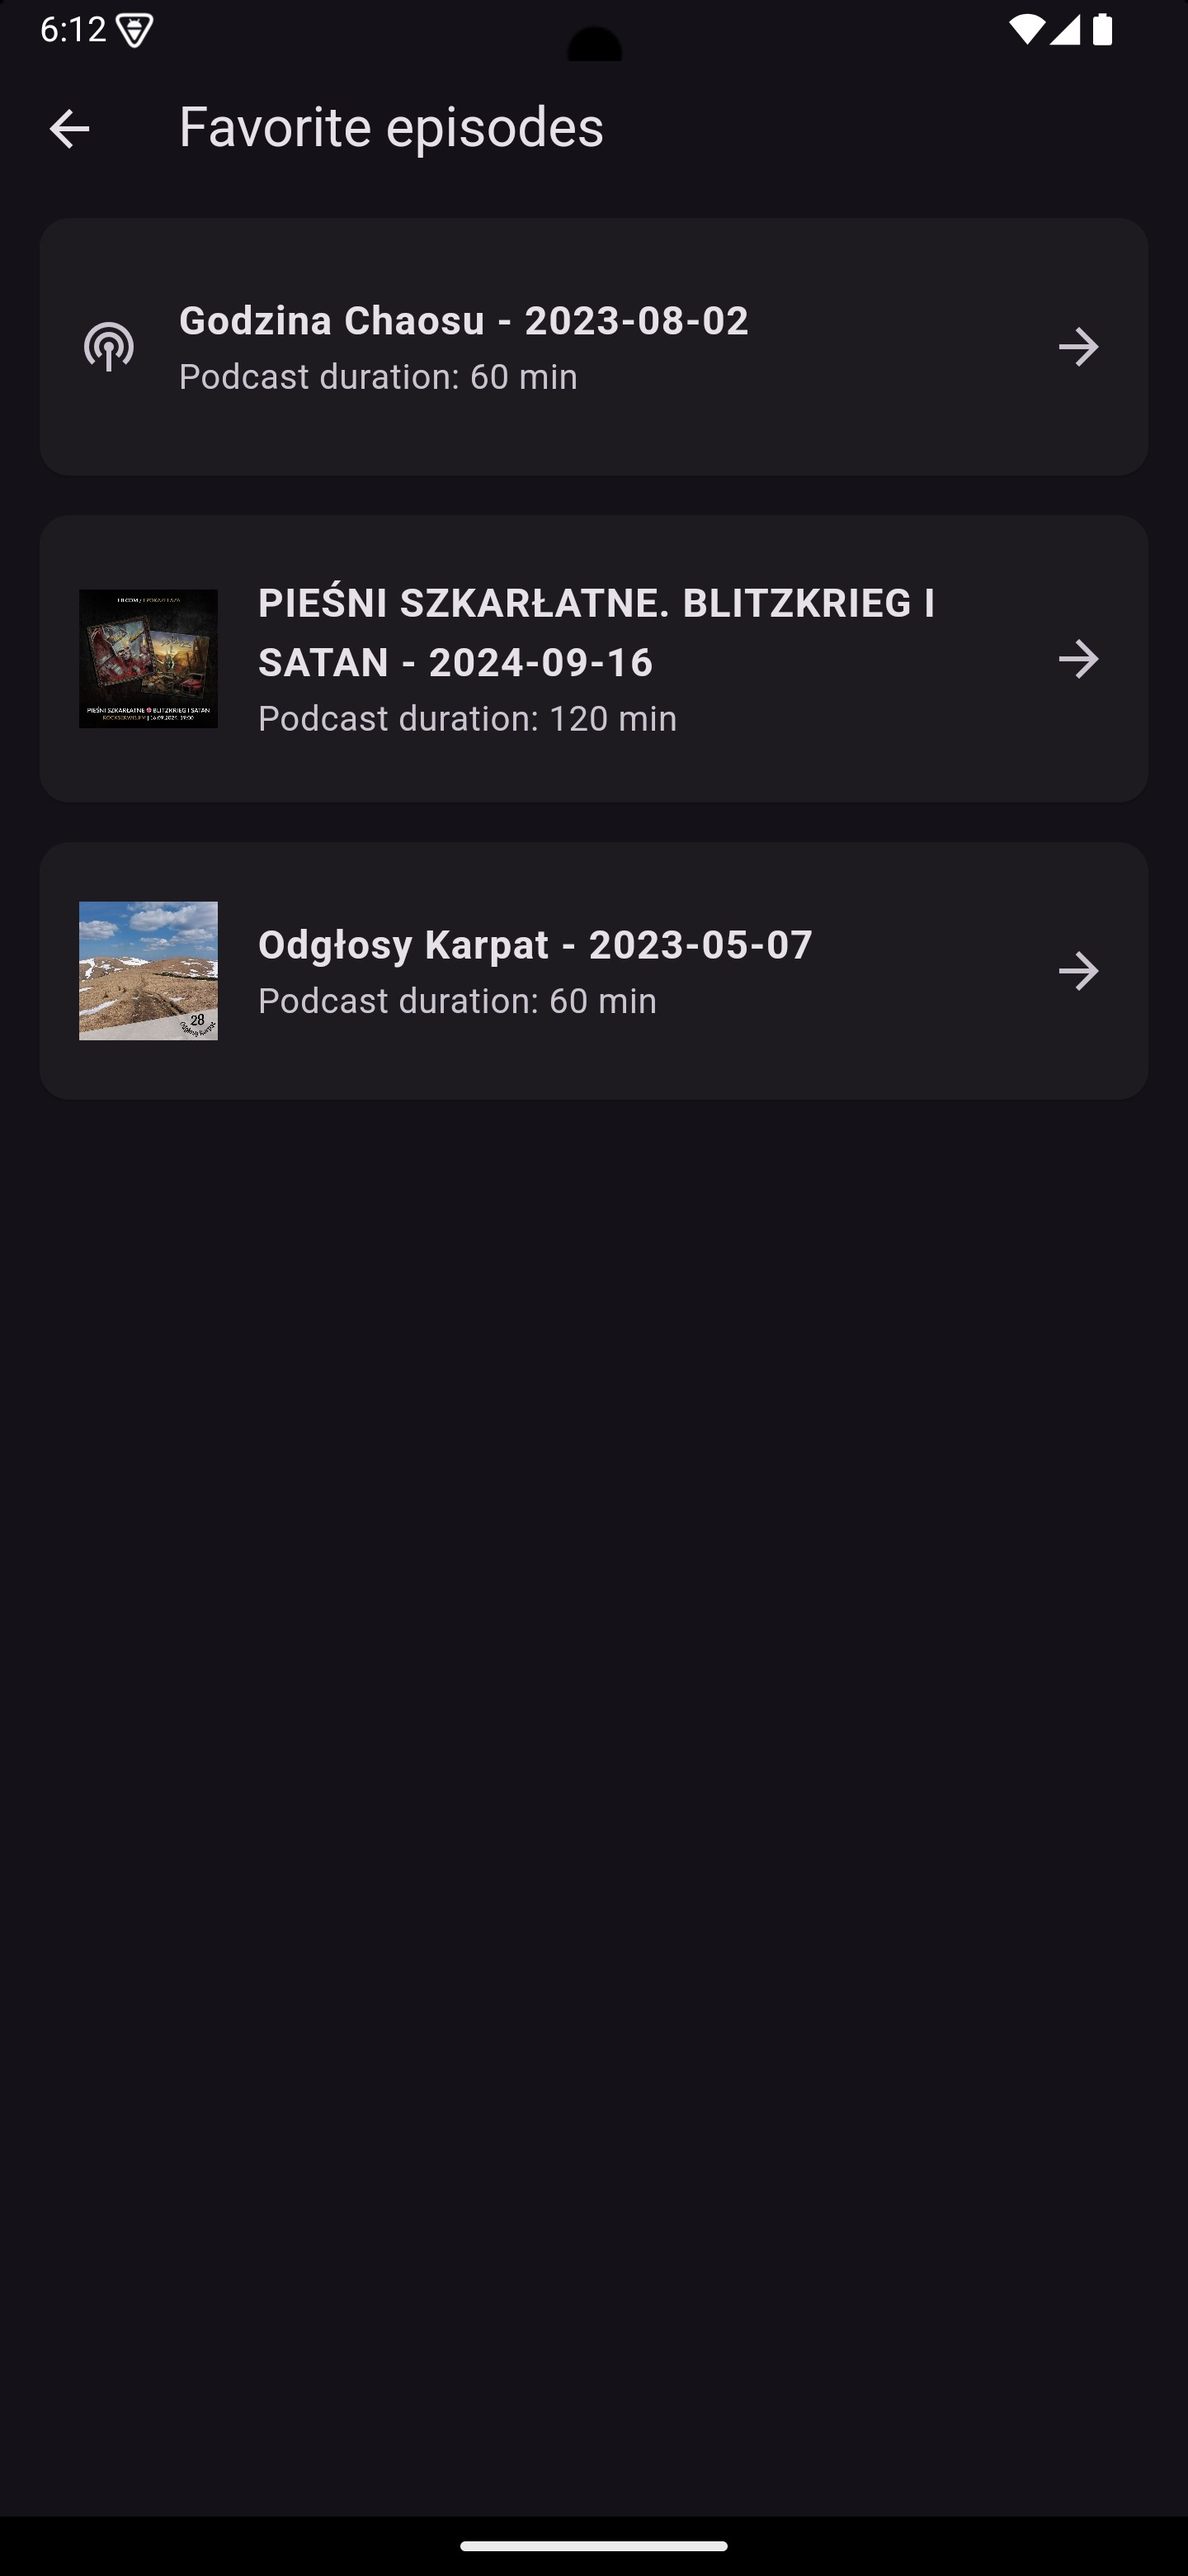
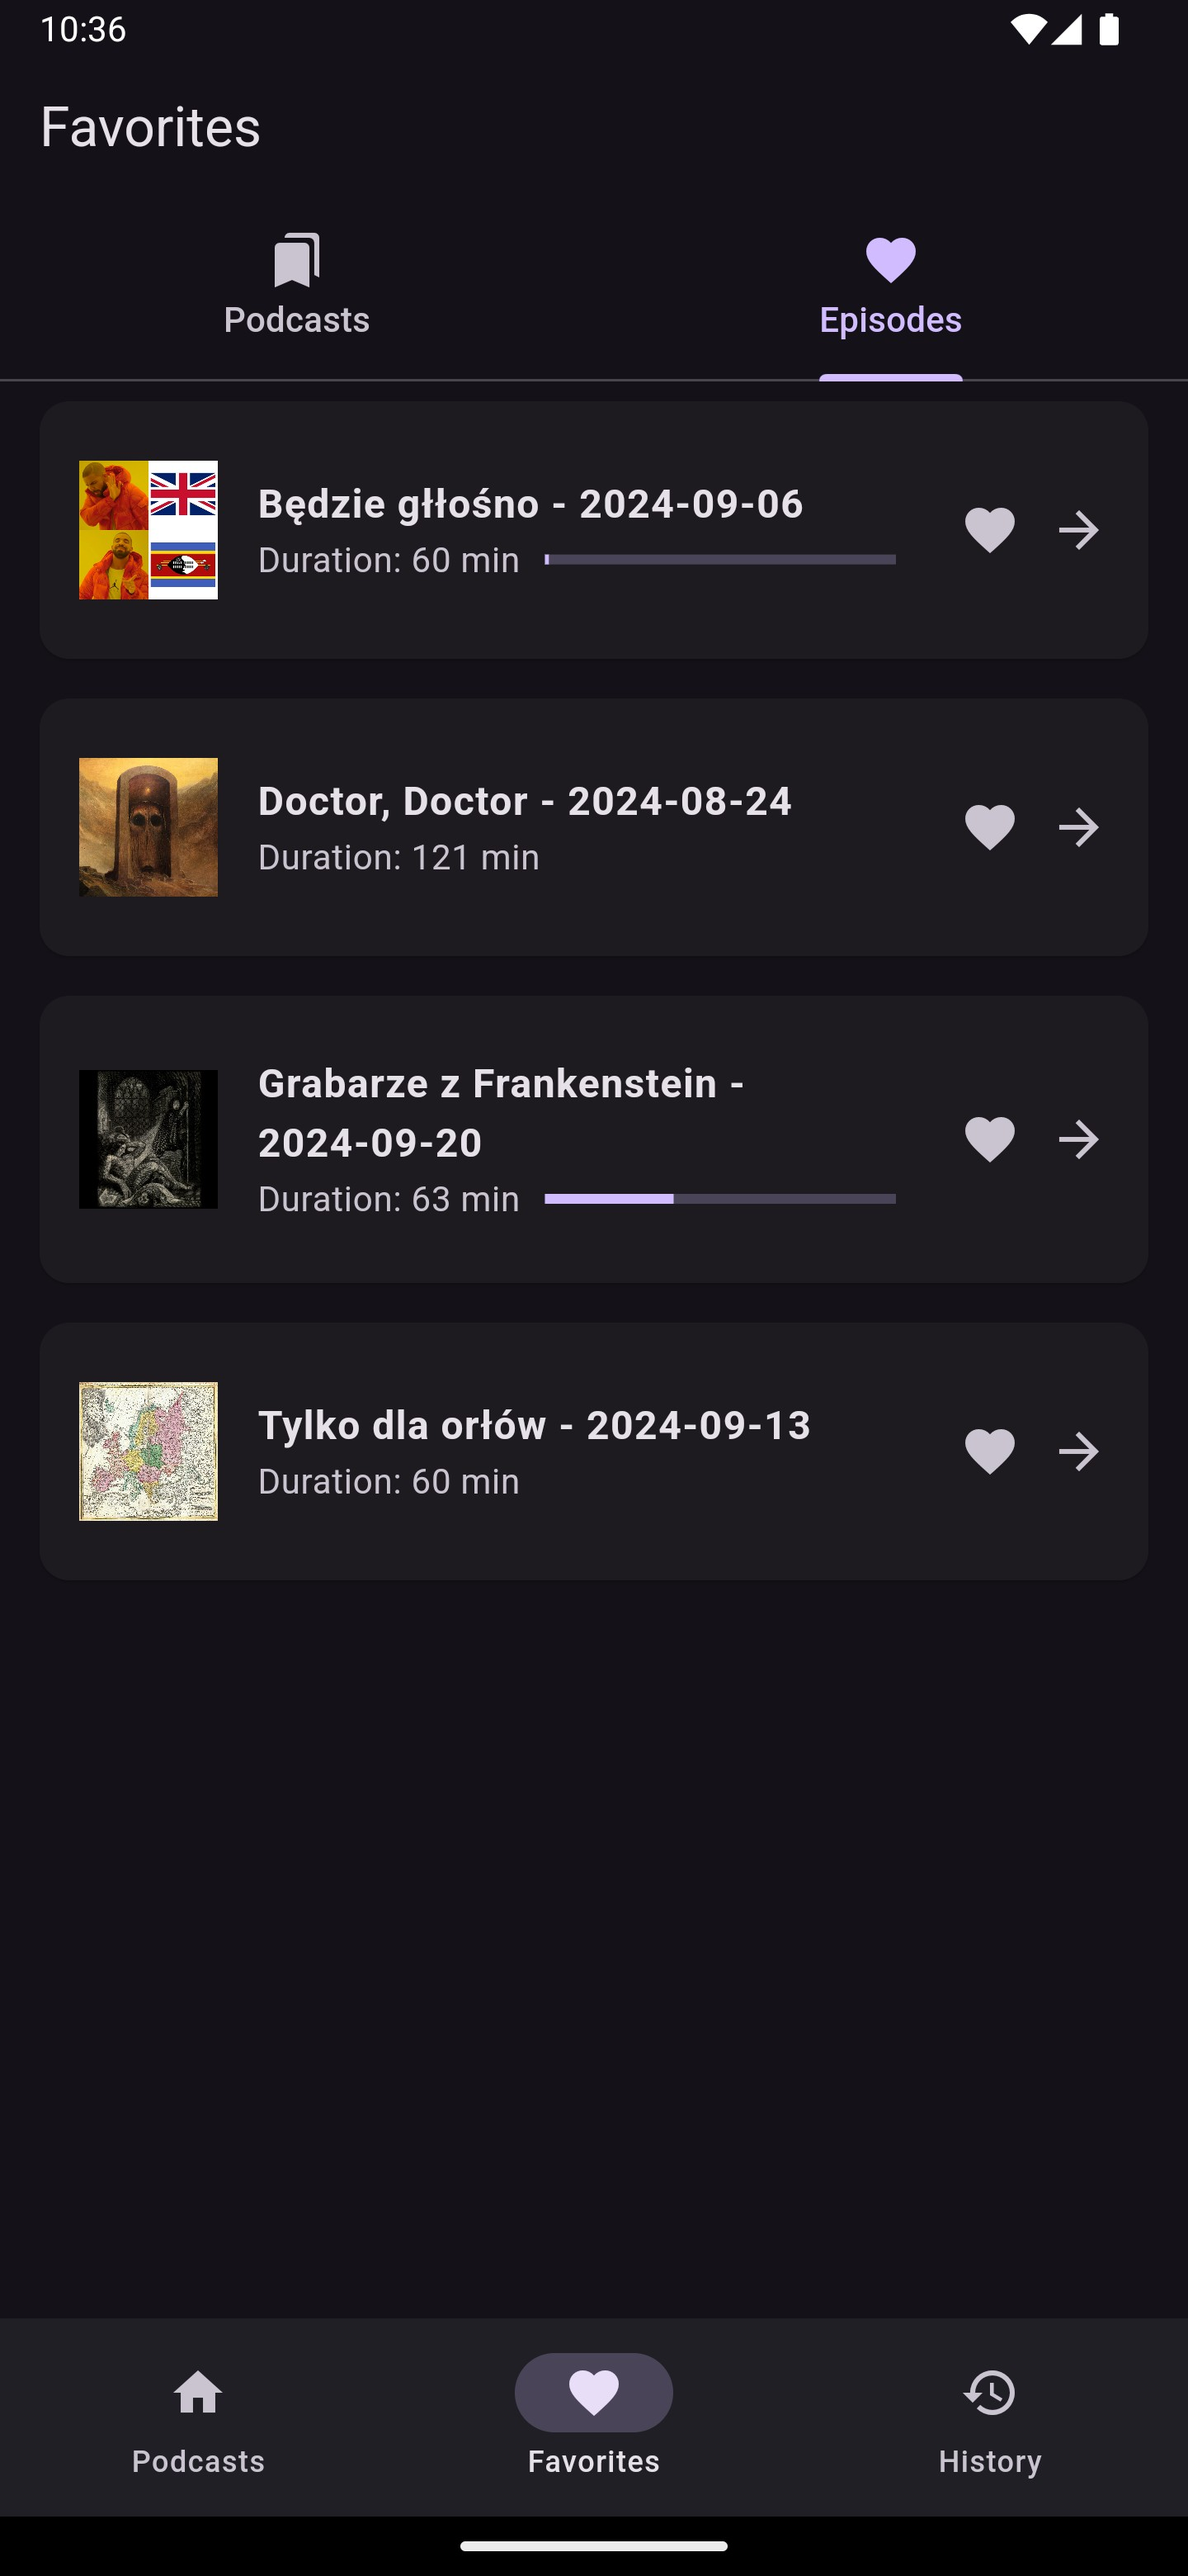
Feat: tabs for favorites

diff --git a/lib/providers/podcast_repository.dart b/lib/providers/podcast_repository.dart
@@ -4,7 +4,6 @@ import 'package:http/http.dart' as http;
 import 'package:riverpod_annotation/riverpod_annotation.dart';
 import 'package:rockserwis_podcaster/api/data/missing_podcasts.dart';
 import 'package:rockserwis_podcaster/models/podcast.dart';
-import 'package:rockserwis_podcaster/objectbox.g.dart';
 import 'package:rockserwis_podcaster/providers/objectbox_repository.dart';
 import 'package:rockserwis_podcaster/utils/const.dart';
 import 'package:rockserwis_podcaster/utils/shared_preferences_provider.dart';
@@ -57,50 +56,37 @@ Future<List<Podcast>> fetchPodcasts(FetchPodcastsRef ref) {
 }
 
 @riverpod
-Future<List<Podcast>> podcastList(PodcastListRef ref) async {
-  final objectBox = await ref.watch(objectBoxProvider.future);
-
-  return objectBox.podcastBox
-      .query()
-      .order(Podcast_.podcastName)
-      .build()
-      .findAsync();
-}
-
-/// Fetches all favorited podcasts from the database.
-@riverpod
-class FavoritedPodcasts extends _$FavoritedPodcasts {
+class AllPodcasts extends _$AllPodcasts {
   @override
   Future<List<Podcast>> build() async {
-    final podcasts = await ref.watch(podcastListProvider.future);
+    final objectBox = await ref.watch(objectBoxProvider.future);
 
-    final favorites = podcasts.where((podcast) => podcast.isFavorited).toList();
-    favorites.sort((a, b) => a.podcastName.compareTo(b.podcastName));
-
-    return favorites;
+    return objectBox.podcastBox.getAllAsync();
   }
 
-  /// Toggles the favorite status of an podcast.
-  ///
-  /// @param podcast The episode to toggle the favorite status of.
   Future<void> toggleFavoritePodcast(Podcast podcast) async {
     final objectBox = await ref.watch(objectBoxProvider.future);
 
     final updatedPodcast = podcast.copyWith(isFavorited: !podcast.isFavorited);
     await objectBox.podcastBox.putAsync(updatedPodcast);
 
-    await update((previousState) {
-      var newState = [...previousState];
-
-      if (updatedPodcast.isFavorited) {
-        newState.add(updatedPodcast);
-      } else {
-        newState.removeWhere((podcast) => podcast.id == updatedPodcast.id);
-      }
-
-      newState.sort((a, b) => a.podcastName.compareTo(b.podcastName));
-
-      return newState;
-    });
+    await update((previousState) => [
+          ...previousState.map(
+            (podcast) =>
+                podcast.id == updatedPodcast.id ? updatedPodcast : podcast,
+          )
+        ]);
   }
+}
+
+@riverpod
+Future<List<Podcast>> favoritedPodcasts(FavoritedPodcastsRef ref) async {
+  final allPodcastsList = await ref.watch(allPodcastsProvider.future);
+
+  final favorites =
+      allPodcastsList.where((podcast) => podcast.isFavorited).toList();
+
+  favorites.sort((a, b) => a.podcastName.compareTo(b.podcastName));
+
+  return favorites;
 }

diff --git a/lib/providers/podcast_repository.g.dart b/lib/providers/podcast_repository.g.dart
@@ -37,29 +37,13 @@ final fetchPodcastsProvider = AutoDisposeFutureProvider<List<Podcast>>.internal(
 );
 
 typedef FetchPodcastsRef = AutoDisposeFutureProviderRef<List<Podcast>>;
-String _$podcastListHash() => r'f02cfd03d3aa96331b693c7ea014b0b455d07b84';
+String _$favoritedPodcastsHash() => r'056e88c82c76314cab740a55c808d180350e67a5';
 
-/// See also [podcastList].
-@ProviderFor(podcastList)
-final podcastListProvider = AutoDisposeFutureProvider<List<Podcast>>.internal(
-  podcastList,
-  name: r'podcastListProvider',
-  debugGetCreateSourceHash:
-      const bool.fromEnvironment('dart.vm.product') ? null : _$podcastListHash,
-  dependencies: null,
-  allTransitiveDependencies: null,
-);
-
-typedef PodcastListRef = AutoDisposeFutureProviderRef<List<Podcast>>;
-String _$favoritedPodcastsHash() => r'3192588aa32cdf55390ec57b84d581fb0dda89d0';
-
-/// Fetches all favorited podcasts from the database.
-///
-/// Copied from [FavoritedPodcasts].
-@ProviderFor(FavoritedPodcasts)
+/// See also [favoritedPodcasts].
+@ProviderFor(favoritedPodcasts)
 final favoritedPodcastsProvider =
-    AutoDisposeAsyncNotifierProvider<FavoritedPodcasts, List<Podcast>>.internal(
-  FavoritedPodcasts.new,
+    AutoDisposeFutureProvider<List<Podcast>>.internal(
+  favoritedPodcasts,
   name: r'favoritedPodcastsProvider',
   debugGetCreateSourceHash: const bool.fromEnvironment('dart.vm.product')
       ? null
@@ -68,6 +52,21 @@ final favoritedPodcastsProvider =
   allTransitiveDependencies: null,
 );
 
-typedef _$FavoritedPodcasts = AutoDisposeAsyncNotifier<List<Podcast>>;
+typedef FavoritedPodcastsRef = AutoDisposeFutureProviderRef<List<Podcast>>;
+String _$allPodcastsHash() => r'cb37183afda3a1a4f9ba5c042a660d1b7853d554';
+
+/// See also [AllPodcasts].
+@ProviderFor(AllPodcasts)
+final allPodcastsProvider =
+    AutoDisposeAsyncNotifierProvider<AllPodcasts, List<Podcast>>.internal(
+  AllPodcasts.new,
+  name: r'allPodcastsProvider',
+  debugGetCreateSourceHash:
+      const bool.fromEnvironment('dart.vm.product') ? null : _$allPodcastsHash,
+  dependencies: null,
+  allTransitiveDependencies: null,
+);
+
+typedef _$AllPodcasts = AutoDisposeAsyncNotifier<List<Podcast>>;
 // ignore_for_file: type=lint
 // ignore_for_file: subtype_of_sealed_class, invalid_use_of_internal_member, invalid_use_of_visible_for_testing_member

diff --git a/lib/main.dart b/lib/main.dart
@@ -8,16 +8,16 @@ import 'package:go_router/go_router.dart';
 import 'package:rockserwis_podcaster/api/api.dart';
 import 'package:rockserwis_podcaster/app_routes.dart';
 import 'package:rockserwis_podcaster/app_startup.dart';
+import 'package:rockserwis_podcaster/components/scaffold.dart';
 import 'package:rockserwis_podcaster/models/podcast.dart';
 import 'package:rockserwis_podcaster/screens/episodes_page.dart';
-import 'package:rockserwis_podcaster/screens/favorite_episodes_page.dart';
+import 'package:rockserwis_podcaster/screens/favorites.dart';
 import 'package:rockserwis_podcaster/screens/history_page.dart';
 import 'package:rockserwis_podcaster/screens/login_page.dart';
 import 'package:rockserwis_podcaster/screens/player.dart';
 import 'package:rockserwis_podcaster/screens/podcasts_page.dart';
 import 'package:rockserwis_podcaster/utils/app_theme_data.dart';
 import 'package:rockserwis_podcaster/utils/app_theme_mode.dart';
-import 'package:rockserwis_podcaster/utils/scaffold.dart';
 import 'package:rockserwis_podcaster/utils/shared_preferences_provider.dart';
 
 import 'utils/firebase_options.dart';
@@ -129,16 +129,8 @@ class _MusicPlayerState extends ConsumerState<MusicPlayer> {
                 GoRoute(
                   path: '/favorites',
                   pageBuilder: (context, state) => const NoTransitionPage(
-                    child: FavoritesEpisodesPage(),
+                    child: FavoritesPage(),
                   ),
-                  // FIXME - add favorite podcasts/episodes
-                  // routes: [
-                  //   GoRoute(
-                  //     path: 'details',
-                  //     builder: (context, state) =>
-                  //         const DetailsScreen(label: 'B'),
-                  //   ),
-                  // ],
                 ),
               ],
             ),

diff --git a/lib/screens/favorites.dart b/lib/screens/favorites.dart
@@ -1,0 +1,37 @@
+import 'package:flutter/material.dart';
+import 'package:flutter_riverpod/flutter_riverpod.dart';
+import 'package:rockserwis_podcaster/screens/favorite_episodes_page.dart';
+import 'package:rockserwis_podcaster/screens/favorite_podcasts_page.dart';
+
+class FavoritesPage extends ConsumerWidget {
+  const FavoritesPage({super.key});
+
+  @override
+  Widget build(BuildContext context, WidgetRef ref) {
+    return DefaultTabController(
+      initialIndex: 1,
+      length: 2,
+      child: Scaffold(
+        appBar: AppBar(
+          title: const Text('Favorites'),
+          bottom: const TabBar(
+            tabs: [
+              Tab(
+                text: 'Podcasts',
+                icon: Icon(Icons.bookmarks),
+              ),
+              Tab(
+                text: 'Episodes',
+                icon: Icon(Icons.favorite),
+              ),
+            ],
+          ),
+        ),
+        body: const TabBarView(children: [
+          FavoritePodcastsPage(),
+          FavoriteEpisodesPage(),
+        ]),
+      ),
+    );
+  }
+}

diff --git a/lib/providers/episode_repository.g.dart b/lib/providers/episode_repository.g.dart
@@ -337,12 +337,12 @@ final favoritedEpisodesProvider =
 );
 
 typedef FavoritedEpisodesRef = AutoDisposeFutureProviderRef<List<Episode>>;
-String _$allEpisodesHash() => r'559c4a04547672789b16d75e92601254def79667';
+String _$allEpisodesHash() => r'224b43677de37c995e9ae31ebdb9e7843c8211bc';
 
 /// See also [AllEpisodes].
 @ProviderFor(AllEpisodes)
 final allEpisodesProvider =
-    AutoDisposeAsyncNotifierProvider<AllEpisodes, List<Episode>>.internal(
+    AsyncNotifierProvider<AllEpisodes, List<Episode>>.internal(
   AllEpisodes.new,
   name: r'allEpisodesProvider',
   debugGetCreateSourceHash:
@@ -351,6 +351,6 @@ final allEpisodesProvider =
   allTransitiveDependencies: null,
 );
 
-typedef _$AllEpisodes = AutoDisposeAsyncNotifier<List<Episode>>;
+typedef _$AllEpisodes = AsyncNotifier<List<Episode>>;
 // ignore_for_file: type=lint
 // ignore_for_file: subtype_of_sealed_class, invalid_use_of_internal_member, invalid_use_of_visible_for_testing_member

diff --git a/lib/screens/favorite_episodes_page.dart b/lib/screens/favorite_episodes_page.dart
@@ -3,17 +3,14 @@ import 'package:flutter_riverpod/flutter_riverpod.dart';
 import 'package:rockserwis_podcaster/components/episodes_list.dart';
 import 'package:rockserwis_podcaster/providers/episode_repository.dart';
 
-class FavoritesEpisodesPage extends ConsumerWidget {
-  const FavoritesEpisodesPage({super.key});
+class FavoriteEpisodesPage extends ConsumerWidget {
+  const FavoriteEpisodesPage({super.key});
 
   @override
   Widget build(BuildContext context, WidgetRef ref) {
     final favoritedEpisodesAsync = ref.watch(favoritedEpisodesProvider);
 
     return Scaffold(
-      appBar: AppBar(
-        title: const Text("Favorite episodes"),
-      ),
       body: favoritedEpisodesAsync.when(
         data: (episodes) => EpisodesList(episodes: episodes),
         loading: () => const Center(child: CircularProgressIndicator()),

diff --git a/lib/screens/history_page.dart b/lib/screens/history_page.dart
@@ -1,7 +1,6 @@
 import 'package:flutter/material.dart';
 import 'package:flutter_riverpod/flutter_riverpod.dart';
 import 'package:rockserwis_podcaster/components/episodes_list.dart';
-import 'package:rockserwis_podcaster/components/shared_app_bar.dart';
 import 'package:rockserwis_podcaster/providers/episode_repository.dart';
 
 class HistoryPage extends ConsumerWidget {
@@ -12,7 +11,9 @@ class HistoryPage extends ConsumerWidget {
     final historyEpisodesAsync = ref.watch(historyEpisodesProvider);
 
     return Scaffold(
-      appBar: SharedAppBar(title: 'History'),
+      appBar: AppBar(
+        title: Text('History'),
+      ),
       body: historyEpisodesAsync.when(
         data: (episodes) => EpisodesList(episodes: episodes),
         loading: () => const Center(child: CircularProgressIndicator()),

diff --git a/lib/screens/favorite_podcasts_page.dart b/lib/screens/favorite_podcasts_page.dart
@@ -1,7 +1,6 @@
 import 'package:flutter/material.dart';
 import 'package:flutter_riverpod/flutter_riverpod.dart';
 import 'package:rockserwis_podcaster/components/podcasts_list.dart';
-import 'package:rockserwis_podcaster/components/shared_app_bar.dart';
 import 'package:rockserwis_podcaster/providers/podcast_repository.dart';
 
 class FavoritePodcastsPage extends ConsumerWidget {
@@ -12,7 +11,6 @@ class FavoritePodcastsPage extends ConsumerWidget {
     final favoritedPodcastsAsync = ref.watch(favoritedPodcastsProvider);
 
     return Scaffold(
-      appBar: SharedAppBar(title: 'Favorite podcasts'),
       body: favoritedPodcastsAsync.when(
         data: (podcasts) => PodcastsList(podcasts: podcasts),
         loading: () => const Center(child: CircularProgressIndicator()),

diff --git a/lib/screens/episodes_page.dart b/lib/screens/episodes_page.dart
@@ -113,7 +113,7 @@ class _EpisodesPageState extends ConsumerState<EpisodesPage> {
             ),
             onPressed: () async {
               await ref
-                  .read(favoritedPodcastsProvider.notifier)
+                  .read(allPodcastsProvider.notifier)
                   .toggleFavoritePodcast(_currentPodcast);
               setState(() {
                 _isFavorited = !_isFavorited;

diff --git a/lib/screens/podcasts_page.dart b/lib/screens/podcasts_page.dart
@@ -14,7 +14,7 @@ class PodcastsPage extends ConsumerStatefulWidget {
 class _PodcastsPageState extends ConsumerState<PodcastsPage> {
   @override
   Widget build(BuildContext context) {
-    final podcastsAsync = ref.watch(podcastListProvider);
+    final podcastsAsync = ref.watch(allPodcastsProvider);
 
     return Scaffold(
       appBar: SharedAppBar(title: 'Podcasts'),

diff --git a/lib/providers/episode_repository.dart b/lib/providers/episode_repository.dart
@@ -54,7 +54,7 @@ Future<List<Episode>> fetchEpisodes(FetchEpisodesRef ref, int podcastId) {
   return ref.watch(episodeRepositoryProvider).fetchEpisodes(podcastId);
 }
 
-@riverpod
+@Riverpod(keepAlive: true)
 class AllEpisodes extends _$AllEpisodes {
   @override
   Future<List<Episode>> build() async {
